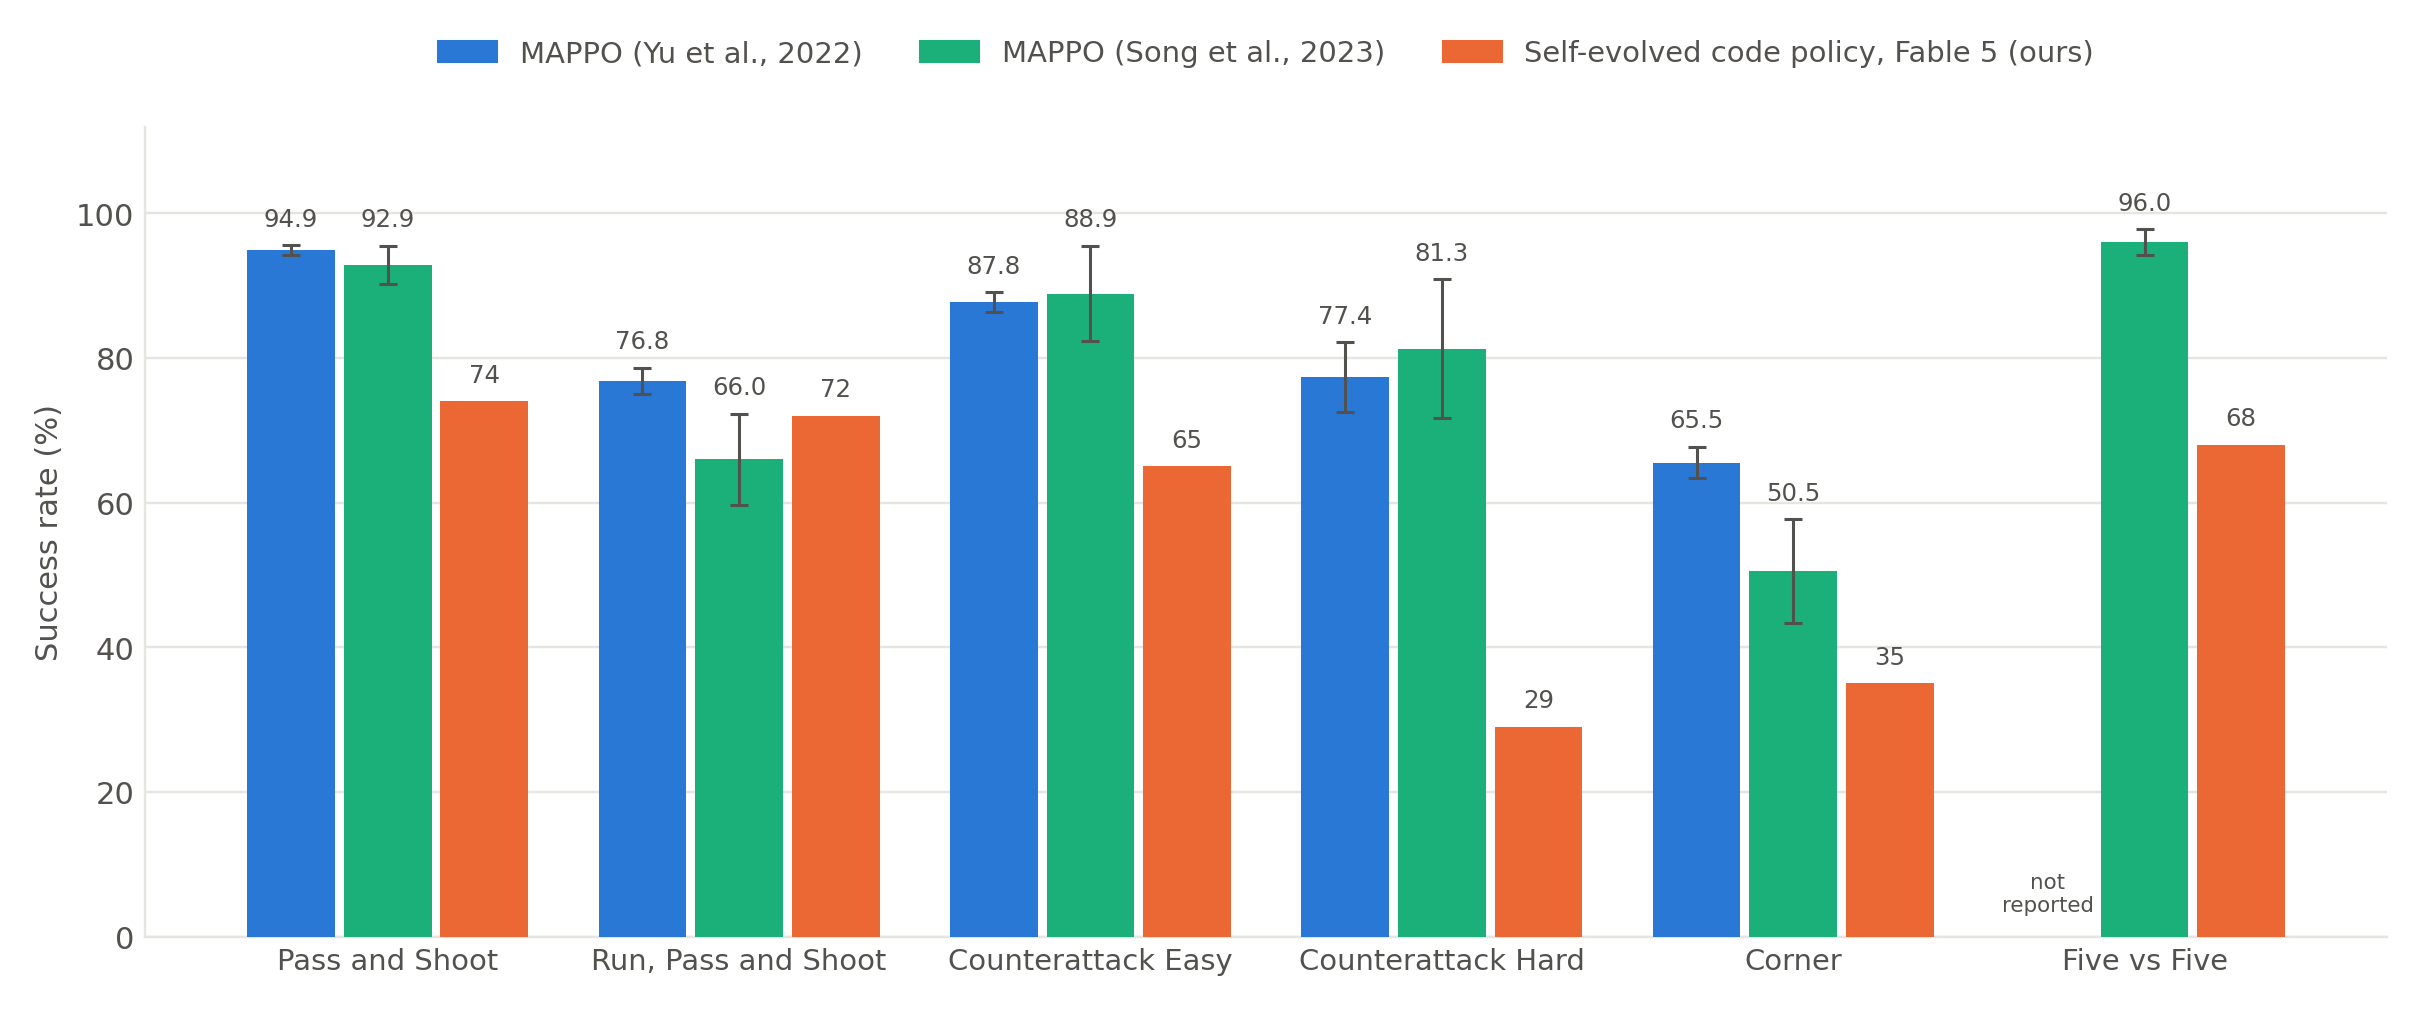
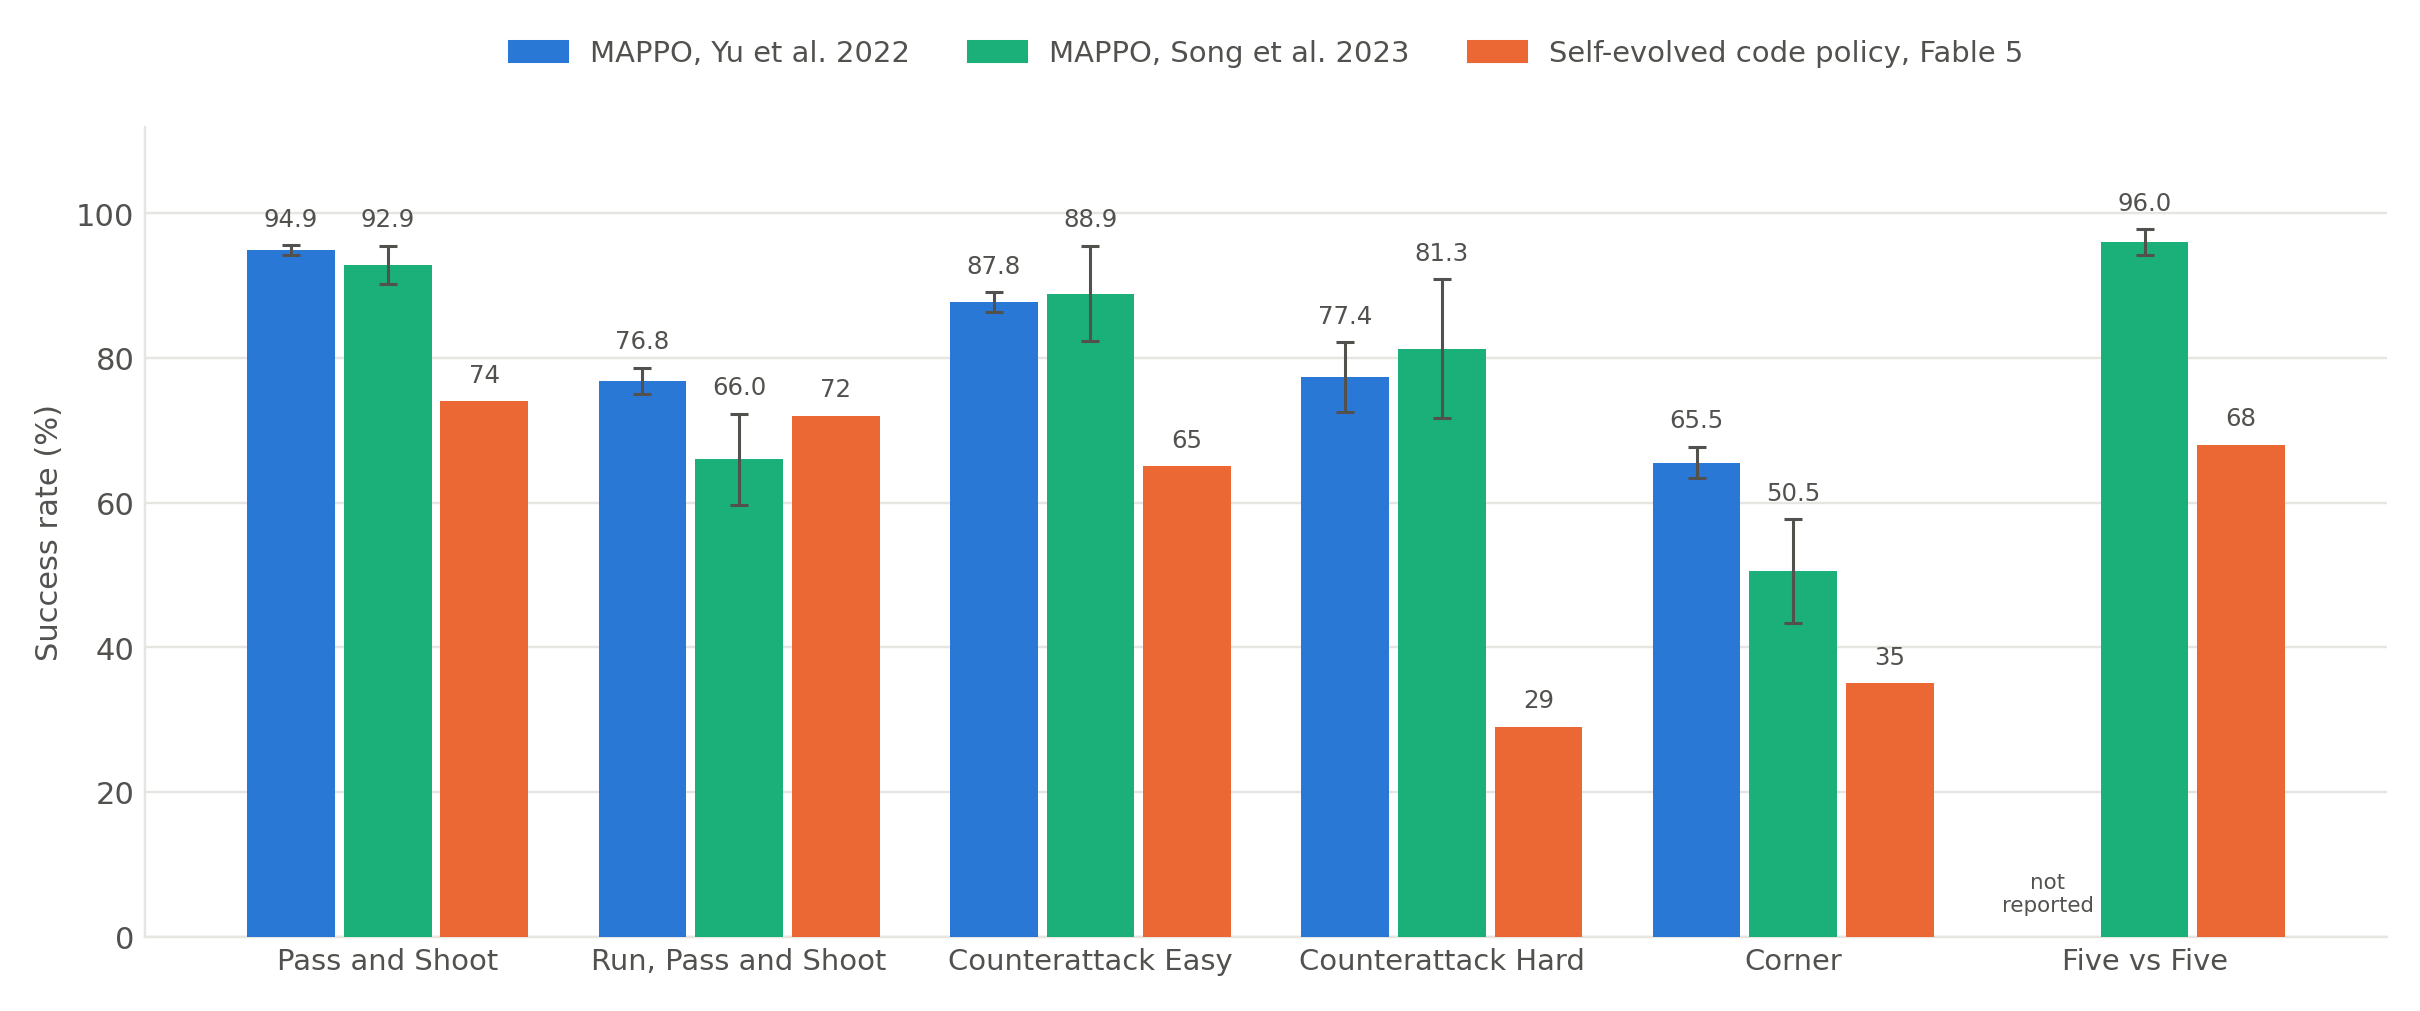
Figure 3: remove parentheses from legend and caption

Changed region(s): [[0.155, 0.0307, 0.8678, 0.0613]]

diff --git a/_posts/2026-10-31-self-improvement-ends-with-a-proof.md b/_posts/2026-10-31-self-improvement-ends-with-a-proof.md
@@ -72,7 +72,7 @@ We ran the same loop on Google Research Football with fresh random seeds on ever
 
 <figure style="margin: 2rem 0; max-width: 100%;">
   <img src="{{ '/assets/img/research/football-mappo-vs-code-policy.png' | relative_url }}" alt="Grouped bar chart of success rate on six Google Research Football scenarios: trained MAPPO from Yu et al. 2022 versus the self-evolved Fable 5 code policy" style="display: block; width: 100%; height: auto;">
-  <figcaption style="margin-top: .65rem; color: #65717d; font-size: .88rem; line-height: 1.5;"><strong>Figure 3.</strong> Success rate under fresh random seeds. Yu et al. (2022, Table 2) report the mean over six seeds of the last ten evaluations after 25 million environment steps (50 million for Counterattack Hard and Corner). Song et al. (2023, Table 3) report the maximum mean win rate during training in their benchmark framework, after 10 to 30 million steps on academy scenarios and 100 million on Five vs Five. Code-policy values are the frontier of each self-evolution run, measured on 100 fresh seeds (50 for Five vs Five) with replication required before promotion. Yu et al. report no Five vs Five result.</figcaption>
+  <figcaption style="margin-top: .65rem; color: #65717d; font-size: .88rem; line-height: 1.5;"><strong>Figure 3.</strong> Success rate under fresh random seeds. Yu et al. 2022, Table 2, report the mean over six seeds of the last ten evaluations after 25 million environment steps, or 50 million for Counterattack Hard and Corner. Song et al. 2023, Table 3, report the maximum mean win rate during training in their benchmark framework, after 10 to 30 million steps on academy scenarios and 100 million on Five vs Five. Code-policy values are the frontier of each self-evolution run, measured on 100 fresh seeds, or 50 for Five vs Five, with replication required before promotion. Yu et al. report no Five vs Five result.</figcaption>
 </figure>
 
 | Scenario | MAPPO, Yu et al. | MAPPO, Song et al. | Code policy, Fable 5 | Evaluation seeds |
